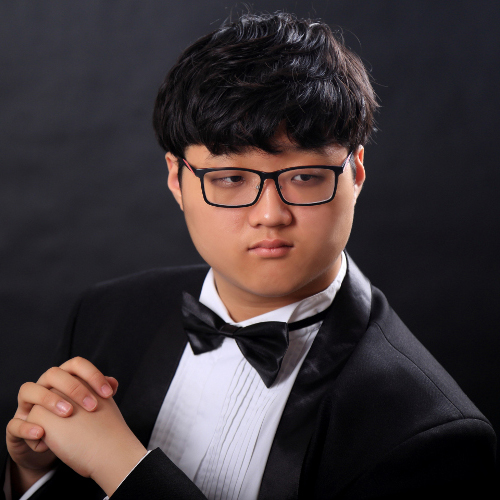
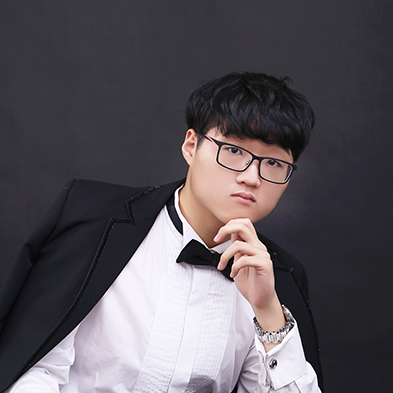
修复关于页的链接，更改优酷小图标，更换照片，添加2017弦乐四重奏的视频

diff --git a/_includes/short-bio.html b/_includes/short-bio.html
@@ -1,6 +1,6 @@
 <div class="pt-3 pl-3 pt-lg-0 pl-lg-0 ml-lg-auto">
     <a href="{{ site.baseurl }}/about" class="align-middle">
-        <img src="{{ site.baseurl }}/images/me_small_square.JPG" class="rounded-circle round-selfie{% if include.ispost %} post-round-selfie{% endif %}" alt="刘持冰" />
+        <img src="{{ site.baseurl }}/images/me_small_square.jpg" class="rounded-circle round-selfie{% if include.ispost %} post-round-selfie{% endif %}" alt="刘持冰" />
     </a>
     <div class="text-light d-inline-flex flex-column align-middle">
         <span>
@@ -13,7 +13,7 @@
                 <img src="{{ site.baseurl }}/images/weibo.ico" alt="微博" class="social-icon" />
             </a>
             <a href="http://i.youku.com/i/UMTc0MzQ1MDEy" data-toggle="tooltip" data-placement="bottom" title="优酷">
-                <img src="{{ site.baseurl }}/images/youku.ico" alt="优酷" class="social-icon" />
+                <img src="{{ site.baseurl }}/images/youku.png" alt="优酷" class="social-icon" />
             </a>
         </span>
     </div>

diff --git a/_layouts/about.html b/_layouts/about.html
@@ -20,10 +20,10 @@
 
 	<div class="container">
 	  <div class="row">
-	    <div class="col-12 col-md-4">
-	      <img class="mb-3" src="{{ site.baseurl }}/images/me_small.JPG" height="100px" width="150px" alt="刘持冰" />
+	    <div class="col-12 col-md-3">
+	      <img class="mb-2 w-100" src="{{ site.baseurl }}/images/me_small.jpg" alt="刘持冰" />
 	    </div>
-		  <main class="col-12 col-md-8">
+		  <main class="col-12 col-md-9">
 				{{ content }}
 			</main>
 		</div>

diff --git a/about/index.md b/about/index.md
@@ -10,9 +10,9 @@ about: true
 2006年 开始学习钢琴。   
 2011年 开始随中央音乐学院附中陈长风副教授学习作曲。   
 2013年 以第一名成绩考入中央音乐学院附中，师从陈长风副教授学习作曲。   
-2014年 <a href="{{ site.baseurl }}/%E5%8E%9F%E5%88%9B/2013/12/06/Love-In-The-Stormy-Night.html">钢琴独奏作品《风暴之夜的爱》</a>在美国 Golden Key Music Festival 艺术节作曲比赛中获得二等奖。   
-2014年 <a href="{{ site.baseurl }}/%E5%8E%9F%E5%88%9B/2014/05/08/Waiting.html">钢琴三重奏作品《等待》</a>在意大利 IBLA GRAND PRIZE 作曲比赛中获得 Most Distinguished + Young Talent Encouragement Special Mention 奖项。   
-2014年 <a href="{{ site.baseurl }}/%E5%8E%9F%E5%88%9B/2014/12/14/Lake-Light.html">《湖光》（为单簧管与钢琴而作）</a>在中央音乐学院 Julia Liu 作曲比赛中获得三等奖。   
+2014年 [钢琴独奏作品《风暴之夜的爱》]({{ site.baseurl }}{% link music/original/_posts/2013-12-06-Love-In-The-Stormy-Night.html %})>在美国 Golden Key Music Festival 艺术节作曲比赛中获得二等奖。   
+2014年 [钢琴三重奏作品《等待》]({{ site.baseurl }}{% link music/original/_posts/2014-05-08-Waiting.html %})在意大利 IBLA GRAND PRIZE 作曲比赛中获得 Most Distinguished + Young Talent Encouragement Special Mention 奖项。   
+2014年 [《湖光》（为单簧管与钢琴而作）]({{ site.baseurl }}{% link music/original/_posts/2014-12-14-Lake-Light.html %})在中央音乐学院 Julia Liu 作曲比赛中获得三等奖。   
 2015年 在 International Piano Point Festival Competition 钢琴比赛中获得专业B组一等奖。   
 2015年 师从刘长远教授学习作曲。   
-2017年 <a href="{{ site.baseurl }}/%E5%8E%9F%E5%88%9B/2016/05/24/Rivulet-in-Mountains.html">《山溪》（为长笛与钢琴五重奏的六重奏而作）</a>在美国 The Webster University Community Music School 2017 Young Composer Competition 比赛中获得 Level 1 的二等奖。
+2017年 [《山溪》（为长笛与钢琴五重奏的六重奏而作）]({{ site.baseurl }}{% link music/original/_posts/2016-05-24-Rivulet-in-Mountains.html %})在美国 The Webster University Community Music School 2017 Young Composer Competition 比赛中获得 Level 1 的二等奖。

diff --git a/music/original/_posts/2017-11-27-String-Quartet.md b/music/original/_posts/2017-11-27-String-Quartet.md
@@ -5,6 +5,5 @@ summary:
 original: true
 custom-head: |+
     # 弦乐四重奏
+video-src: http://player.youku.com/embed/XMzM3MDA1Nzc4OA==
 ---
-
-Hello World!
